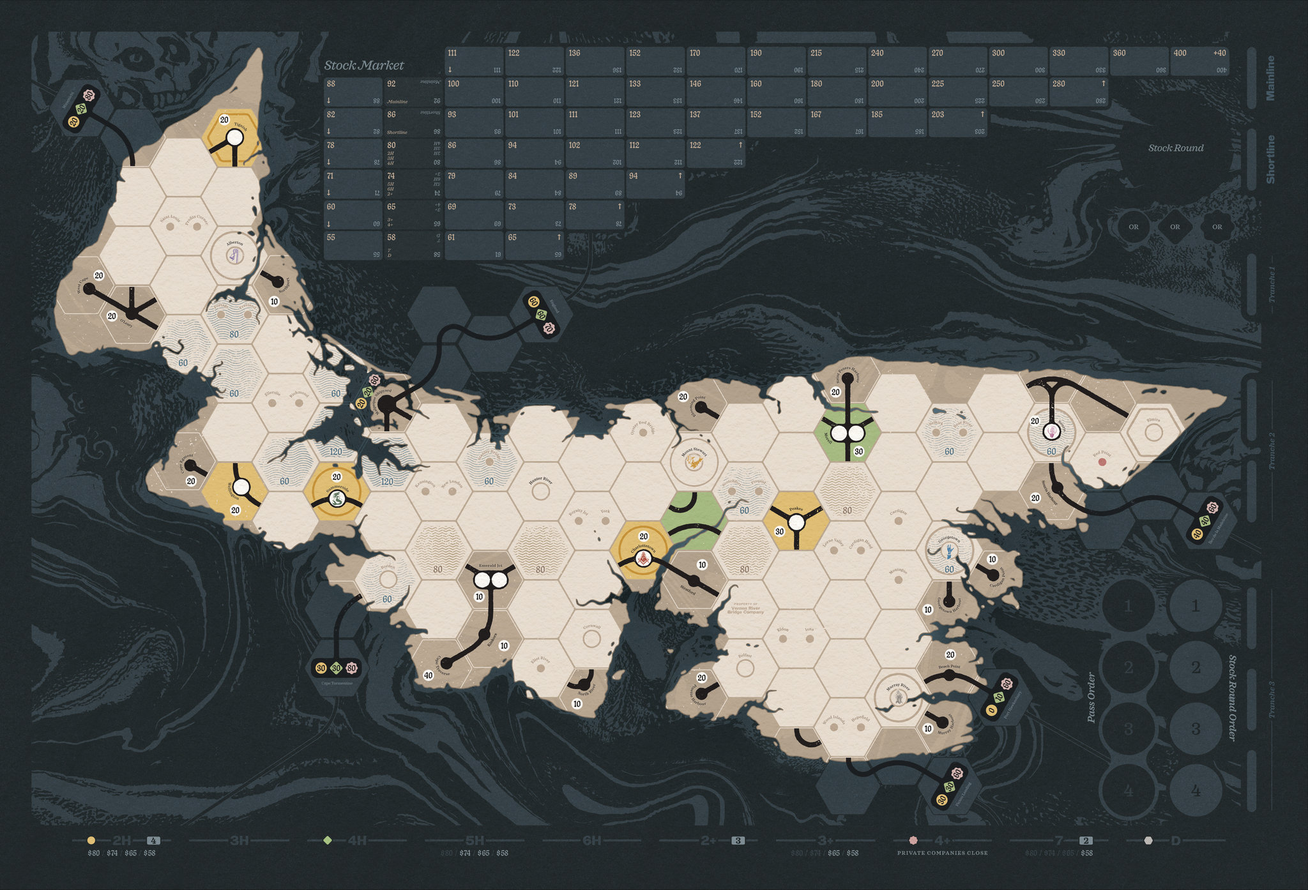
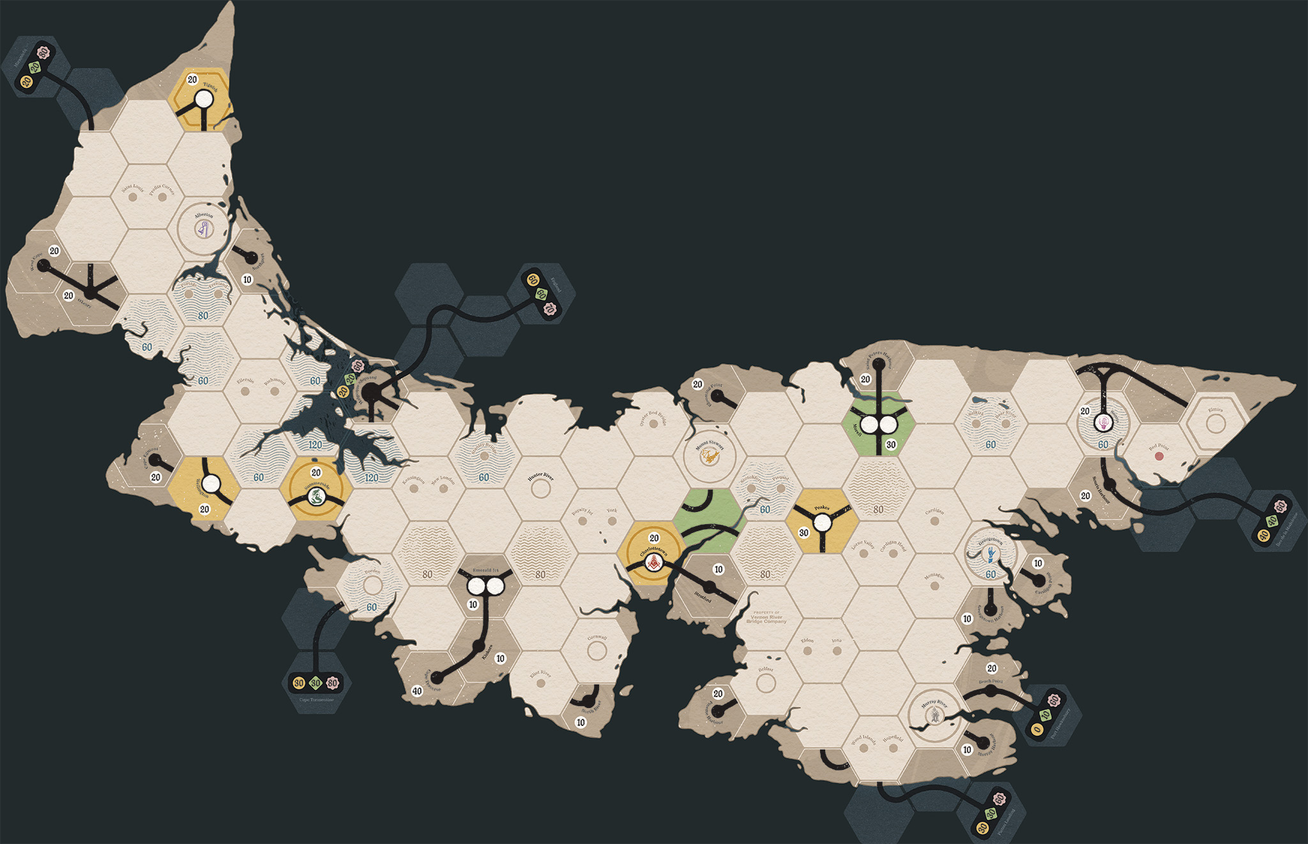
Realign TOP tile overlay for updated board artwork

diff --git a/apps/18xx-playground/tests/boardArtwork.spec.ts b/apps/18xx-playground/tests/boardArtwork.spec.ts
@@ -14,7 +14,7 @@ for (const width of [1280, 390]) {
         const initialPageWidth = await page.evaluate(() => document.documentElement.scrollWidth)
         await page.getByRole('button', { name: 'Use published artwork', exact: true }).click()
         await expect(scene).toHaveAttribute('width', '2048')
-        await expect(scene).toHaveAttribute('height', '1394')
+        await expect(scene).toHaveAttribute('height', '1322')
         await expect(scene).toHaveAttribute('data-presentation', 'published')
         await expect
             .poll(async () => {

diff --git a/games/the-old-prince-ui/src/lib/mapView.ts b/games/the-old-prince-ui/src/lib/mapView.ts
@@ -22,9 +22,9 @@ export const TheOldPrinceMapView: MapViewDefinition = {
         backgroundColor: '#222a2c',
         imageUrl: BoardImage,
         width: 2048,
-        height: 1394,
-        origin: { x: 128, y: 169 },
-        scale: 1.067
+        height: 1322,
+        origin: { x: 55.5, y: 105.5 },
+        scale: 1.173
     },
     map: TheOldPrinceMap,
     tileSet: TheOldPrinceTileSet,

diff --git a/games/the-old-prince-ui/docs/board-artwork.md b/games/the-old-prince-ui/docs/board-artwork.md
@@ -1,8 +1,7 @@
 # Published board alignment preview
 
 The table can display the supplied MAP-AUGUST-01 artwork beneath its semantic map.
-The packaged JPEG is 2048 × 1394 pixels, approximately 545 KB. Its complete board,
-including printed reference areas, is the viewport's natural size. Fit and zoom
+The packaged JPEG is 2048 × 1322 pixels. The updated island artwork is the viewport's natural size. Fit and zoom
 scale that viewport; no raster enlargement or second image is generated.
 
 The shared presentation seam accepts an image, native dimensions, a map-origin
@@ -22,15 +21,15 @@ one fixed TOP board only. 1889 retains its generic presentation. Multiple boards
 alternate editions and mutable printed features require
 explicit title presentation data before those cases are supported.
 
-Initial alignment uses a map origin at (128, 169) pixels and scale 1.067. The
+Initial alignment uses a map origin at (55.5, 105.5) pixels and scale 1.173. The
 diagnostic grid is hidden in artwork mode. Island hexes align closely. The user
 confirmed that the physical board intentionally rearranges offboards: no tiles
 are laid on them and their game meaning is unchanged, so those differences do not
 require tile alignment. Some printed city centers differ from the generic node
 layout and remain calibration gaps. The file's rules-edition equivalence has not
 been established by its filename; this is an alignment preview, not a claim of
-complete published-edition fidelity. Reference tables in the image are static;
-the existing market and phase panels continue to display current game facts.
+complete published-edition fidelity. The existing market and phase panels display current game facts; the updated
+image omits the old printed reference tables.
 
 Verification covers natural image dimensions, unbuilt hex transparency, placed
 tiles, pointer selection, draft retention when toggling, History View and Undo,

diff --git a/games/the-old-prince-ui/docs/ui-interaction-visual-contract.md b/games/the-old-prince-ui/docs/ui-interaction-visual-contract.md
@@ -270,7 +270,7 @@ Vernon River’s unbuilt map marker uses title-owned SVG artwork: a large VR abo
 ## Published board presentation
 
 TOP follows the shared published-board presentation contract. Its picture button
-selects the packaged 2048 × 1394 MAP-AUGUST-01 JPEG. Laid tiles and live overlays
+selects the packaged 2048 × 1322 MAP-AUGUST-01 JPEG. Laid tiles and live overlays
 render over the board with the diagnostic grid hidden. The initial
 calibration and known printed-layout differences are recorded in
 [the board artwork design note](board-artwork.md). Browser scenarios cover switching
